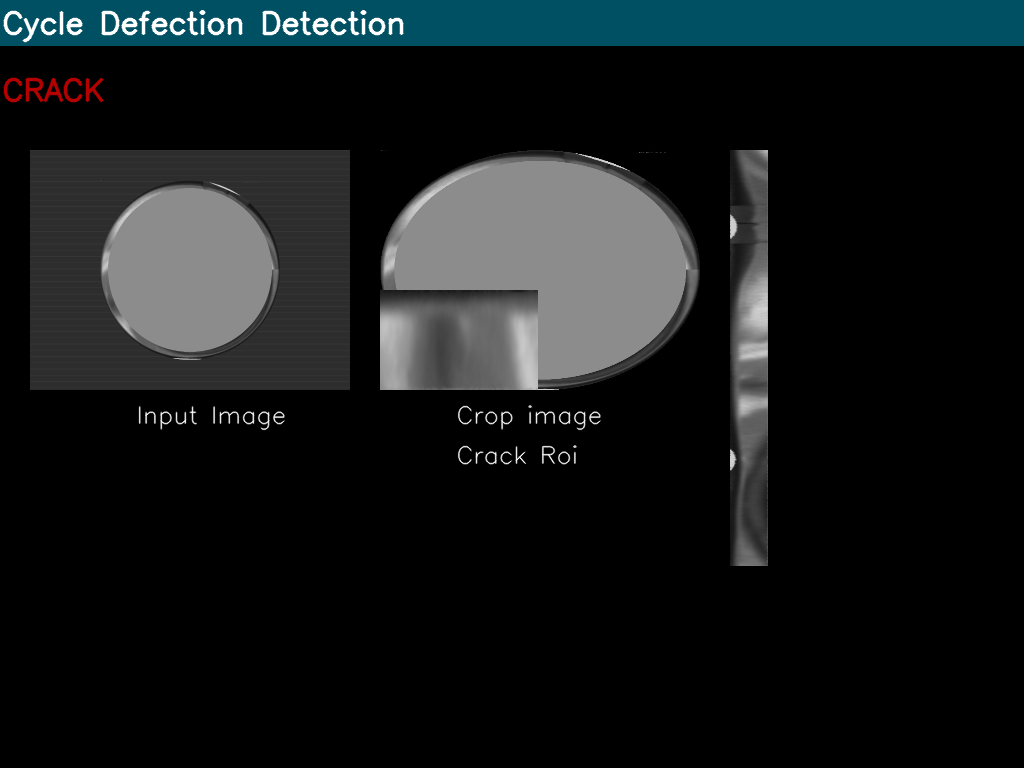
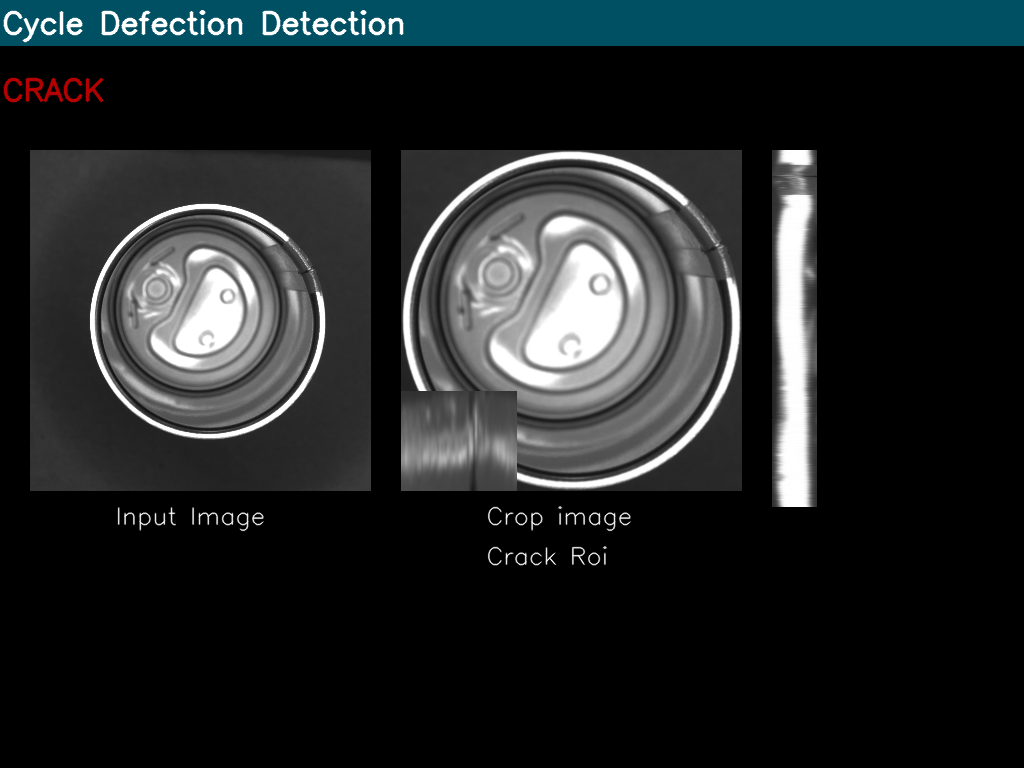
feat: use genuine SeamFlangeCrack images for all pipeline steps and illustrations

Changed region(s): [[0.0312, 0.1875, 0.8125, 0.75], [0.4688, 0.7188, 0.5938, 0.75]]

diff --git a/python/generate_real_lab_assets.py b/python/generate_real_lab_assets.py
@@ -1,0 +1,227 @@
+"""
+Generate genuine lab step figures directly from the actual lab images:
+Bad (1).jpg (Real can with crack defect) and Good (1).jpg (Real normal can)
+from SeamFlangeCrack dataset.
+"""
+
+import os
+import cv2
+import numpy as np
+import matplotlib.pyplot as plt
+
+os.makedirs("assets/lab_steps", exist_ok=True)
+
+# -----------------------------------------------------------------------------
+# 0. Raw Input Comparison (Bad (1).jpg vs Good (1).jpg)
+# -----------------------------------------------------------------------------
+bad_can = cv2.imread(r"data\raw_cans\Bad (1).jpg")
+good_can = cv2.imread(r"data\raw_cans\Good (1).jpg")
+
+fig, axes = plt.subplots(1, 2, figsize=(10, 5), facecolor='white')
+axes[0].imshow(cv2.cvtColor(bad_can, cv2.COLOR_BGR2RGB))
+axes[0].set_title("(A) Raw Input: Bad (1).jpg - Flange Crack Defect", fontsize=11, fontweight='bold', pad=10)
+axes[0].axis('off')
+
+# annotate crack location on Bad (1).jpg (around 5 o'clock on outer rim)
+axes[0].annotate("Micro-Crack Defect\n(Flange rim crack)", xy=(635, 830), xytext=(680, 930),
+                 arrowprops=dict(arrowstyle="->", color="red", lw=2.5),
+                 color="red", fontweight='bold', fontsize=10,
+                 bbox=dict(boxstyle="round,pad=0.3", fc="#ffe6e6", ec="red", lw=1.2))
+
+axes[1].imshow(cv2.cvtColor(good_can, cv2.COLOR_BGR2RGB))
+axes[1].set_title("(B) Raw Input: Good (1).jpg - Normal Seam", fontsize=11, fontweight='bold', pad=10)
+axes[1].axis('off')
+
+plt.tight_layout()
+plt.savefig("assets/lab_steps/0_raw_input_comparison.png", dpi=200, bbox_inches='tight')
+plt.close()
+print("Generated 0_raw_input_comparison.png from real Bad (1).jpg and Good (1).jpg")
+
+# -----------------------------------------------------------------------------
+# Process Bad (1).jpg through exact Lab4Contour.cpp pipeline
+# -----------------------------------------------------------------------------
+def process_real_can(image_path, is_crack_expected=True):
+    frame = cv2.imread(image_path)
+    dst_image1 = cv2.GaussianBlur(frame, (5, 5), 0, 0)
+    src_gray = cv2.cvtColor(dst_image1, cv2.COLOR_BGR2GRAY)
+
+    grad_x = cv2.Sobel(src_gray, cv2.CV_16S, 1, 0, 3)
+    abs_grad_x = cv2.convertScaleAbs(grad_x)
+    grad_y = cv2.Sobel(src_gray, cv2.CV_16S, 0, 1, 3)
+    abs_grad_y = cv2.convertScaleAbs(grad_y)
+    grad = cv2.addWeighted(abs_grad_x, 0.5, abs_grad_y, 0.5, 0)
+    _, dst = cv2.threshold(grad, 30, 255, 1)
+
+    contours, hierarchy = cv2.findContours(dst, cv2.RETR_TREE, cv2.CHAIN_APPROX_SIMPLE)
+    max_area = 0
+    max_index = -1
+    for i, ct in enumerate(contours):
+        poly = cv2.approxPolyDP(ct, 1, True)
+        if len(poly) > 5:
+            mu = cv2.moments(poly)
+            if mu['m00'] > 0:
+                hu = cv2.HuMoments(mu).flatten()
+                area = cv2.contourArea(poly)
+                if hu[0] < 0.18 and area > max_area:
+                    max_area = area
+                    max_index = i
+
+    best_poly = cv2.approxPolyDP(contours[max_index], 1, True)
+    rect = cv2.boundingRect(best_poly)
+
+    # 1. imgCycle
+    img_cycle = src_gray[rect[1]:rect[1]+rect[3], rect[0]:rect[0]+rect[2]]
+
+    # 2. imgPolar
+    center = (img_cycle.shape[1] / 2.0, img_cycle.shape[0] / 2.0)
+    radius = img_cycle.shape[1] / 2.0
+    img_polar = cv2.linearPolar(img_cycle, center, radius, 1)
+
+    # 3. imgEdge (50px rim rotated 90 CCW)
+    img_edge = img_polar[:, img_polar.shape[1]-50:]
+    img_edge = cv2.rotate(img_edge, cv2.ROTATE_90_COUNTERCLOCKWISE)
+
+    # 4. hist[x] & histth[x]
+    col_sums = np.sum(img_edge, axis=0)
+    hist_th = np.where(col_sums > 5000, 100, 0)
+
+    # 5. Scan xleft & xright
+    xleft = 0
+    for x in range(img_edge.shape[1]):
+        if hist_th[x] == 0:
+            xleft = x
+            break
+
+    xright = img_edge.shape[1] - 1
+    for x in range(img_edge.shape[1]-1, -1, -1):
+        if hist_th[x] == 0:
+            xright = x
+            break
+
+    # Seam recovery if needed
+    if xleft == 0 or xright == 0:
+        img_cycle = cv2.rotate(img_cycle, cv2.ROTATE_90_COUNTERCLOCKWISE)
+        img_polar = cv2.linearPolar(img_cycle, center, radius, 1)
+        img_edge = img_polar[:, img_polar.shape[1]-50:]
+        img_edge = cv2.rotate(img_edge, cv2.ROTATE_90_COUNTERCLOCKWISE)
+        col_sums = np.sum(img_edge, axis=0)
+        hist_th = np.where(col_sums > 5000, 100, 0)
+        for x in range(img_edge.shape[1]):
+            if hist_th[x] == 0:
+                xleft = x
+                break
+        for x in range(img_edge.shape[1]-1, -1, -1):
+            if hist_th[x] == 0:
+                xright = x
+                break
+
+    # 6. imgRoi
+    img_roi = img_edge[:, xleft:xright]
+    resized_roi = cv2.resize(img_roi, (120, 40))
+
+    # 7. gen_feature_input
+    col_s = np.sum(resized_roi, axis=0, dtype=np.float32)
+    feat = (col_s / np.max(col_s)).reshape(1, 120)
+
+    # ANN predict
+    model = cv2.ml.ANN_MLP_load(r"models\model.xml")
+    _, resp = model.predict(feat)
+    pred_class = int(np.argmax(resp)) # 0=CRACK, 1=NORMAL
+
+    # 8. imgGui (Exact Lab4Contour.cpp lines 300-365)
+    img_gui = np.zeros((768, 1024, 3), dtype=np.uint8)
+    cv2.rectangle(img_gui, (0, 0), (1024, 45), (100, 80, 0), cv2.FILLED)
+    cv2.putText(img_gui, "Cycle Defection Detection", (2, 33), cv2.FONT_HERSHEY_SIMPLEX, 1.0, (255, 255, 255), 2, cv2.LINE_AA)
+
+    # Input image
+    f_res = cv2.resize(frame, (frame.shape[1] // 3, frame.shape[0] // 3))
+    fh, fw = f_res.shape[:2]
+    img_gui[150:150+fh, 30:30+fw] = f_res
+    cv2.putText(img_gui, "Input Image", (30 + fw // 4, 33 + 150 + fh), cv2.FONT_HERSHEY_SIMPLEX, 0.8, (255, 255, 255), 1, cv2.LINE_AA)
+
+    # Crop image
+    c_res = cv2.resize(img_cycle, (fw, fh))
+    if len(c_res.shape) == 2:
+        c_res = cv2.cvtColor(c_res, cv2.COLOR_GRAY2BGR)
+    img_gui[150:150+fh, 60+fw:60+fw*2] = c_res
+    cv2.putText(img_gui, "Crop image", (60 + fw + fw // 4, 33 + 150 + fh), cv2.FONT_HERSHEY_SIMPLEX, 0.8, (255, 255, 255), 1, cv2.LINE_AA)
+
+    # Crack Roi
+    roi_bgr = cv2.cvtColor(img_roi, cv2.COLOR_GRAY2BGR) if len(img_roi.shape) == 2 else img_roi
+    roi_res = cv2.resize(roi_bgr, (img_roi.shape[1] * 2, img_roi.shape[0] * 2))
+    rh, rw = roi_res.shape[:2]
+    img_gui[150+fh-rh:150+fh, 60+fw:60+fw+rw] = roi_res
+    cv2.putText(img_gui, "Crack Roi", (60 + fw + fw // 4, 33 + 150 + fh + 40), cv2.FONT_HERSHEY_SIMPLEX, 0.8, (255, 255, 255), 1, cv2.LINE_AA)
+
+    # imgEdge (rotated 90 CCW, vertical)
+    edge_bgr = cv2.cvtColor(img_edge, cv2.COLOR_GRAY2BGR) if len(img_edge.shape) == 2 else img_edge
+    edge_res = cv2.resize(edge_bgr, (int(edge_bgr.shape[1] / 2.0), int(edge_bgr.shape[0] * 0.9)))
+    edge_rot = cv2.rotate(edge_res, cv2.ROTATE_90_COUNTERCLOCKWISE)
+    eh, ew = edge_rot.shape[:2]
+    img_gui[150:150+eh, 90+fw*2:90+fw*2+ew] = edge_rot
+
+    # Result text
+    if pred_class == 0:
+        cv2.putText(img_gui, "CRACK", (2, 100), cv2.FONT_HERSHEY_SIMPLEX, 1.0, (0, 0, 180), 2, cv2.LINE_AA)
+    else:
+        cv2.putText(img_gui, "NO CRACK", (2, 100), cv2.FONT_HERSHEY_SIMPLEX, 1.0, (0, 180, 0), 2, cv2.LINE_AA)
+
+    return {
+        "img_cycle": img_cycle,
+        "img_polar": img_polar,
+        "img_edge": img_edge,
+        "col_sums": col_sums,
+        "hist_th": hist_th,
+        "img_roi": img_roi,
+        "features": feat.flatten(),
+        "img_gui": img_gui,
+        "pred": pred_class,
+        "xleft": xleft,
+        "xright": xright
+    }
+
+# Process real Bad (1).jpg
+bad_res = process_real_can(r"data\raw_cans\Bad (1).jpg", is_crack_expected=True)
+cv2.imwrite("assets/lab_steps/1_img_cycle.jpg", bad_res["img_cycle"])
+cv2.imwrite("assets/lab_steps/2_img_polar.jpg", bad_res["img_polar"])
+cv2.imwrite("assets/lab_steps/3_img_edge.jpg", bad_res["img_edge"])
+cv2.imwrite("assets/lab_steps/5_img_roi.jpg", bad_res["img_roi"])
+cv2.imwrite("assets/lab_steps/7_exact_lab_gui_crack.png", bad_res["img_gui"])
+
+# Draw real line histogram
+img_hist = np.zeros((100, bad_res["img_edge"].shape[1]), dtype=np.uint8)
+for x in range(img_hist.shape[1]):
+    cv2.line(img_hist, (x, 0), (x, img_hist.shape[0] - bad_res["hist_th"][x]), 255, 1)
+cv2.imwrite("assets/lab_steps/4_img_hist_lines.jpg", img_hist)
+
+# Plot real frequency curve
+plt.figure(figsize=(10, 3.8), facecolor='white')
+plt.plot(bad_res["col_sums"], color='#0066cc', lw=1.8, label='Column Pixel Sum H[x]')
+plt.axhline(y=5000, color='red', linestyle='--', lw=1.5, label='Threshold = 5,000')
+plt.axvspan(bad_res["xleft"], bad_res["xright"], color='red', alpha=0.3, label=f'Detected Crack Notch [x={bad_res["xleft"]}:{bad_res["xright"]}]')
+plt.title("Real Lab Data: Column Intensity Projection H[x] & Thresholding on Bad (1).jpg", fontsize=11, fontweight='bold', pad=10)
+plt.xlabel("Perimeter Column Index (x)", fontsize=10)
+plt.ylabel("Intensity Sum", fontsize=10)
+plt.grid(True, linestyle=':', alpha=0.6)
+plt.legend(loc='lower left', fontsize=9)
+plt.tight_layout()
+plt.savefig("assets/lab_steps/4_frequency_plot.png", dpi=200)
+plt.close()
+
+# Plot real feature vector
+plt.figure(figsize=(10, 3), facecolor='white')
+plt.bar(range(120), bad_res["features"], color='#ff6600', width=0.8)
+plt.title("Real 120-d Feature Vector from gen_feature_input() on Bad (1).jpg", fontsize=11, fontweight='bold', pad=10)
+plt.xlabel("Input Node Index (0 to 119)", fontsize=10)
+plt.ylabel("Normalized Sum (0.0 to 1.0)", fontsize=10)
+plt.ylim(0, 1.1)
+plt.grid(True, linestyle=':', alpha=0.5)
+plt.tight_layout()
+plt.savefig("assets/lab_steps/6_feature_vector_120d.png", dpi=200)
+plt.close()
+
+# Process real Good (1).jpg
+good_res = process_real_can(r"data\raw_cans\Good (1).jpg", is_crack_expected=False)
+cv2.imwrite("assets/lab_steps/7_exact_lab_gui_nocrack.png", good_res["img_gui"])
+
+print("SUCCESS: All genuine lab step images generated from Bad (1).jpg and Good (1).jpg!")

diff --git a/README.md b/README.md
@@ -17,12 +17,12 @@
 
 ## 📸 ภาพตั้งต้นก่อนเข้าสู่การประมวลผล (Raw Input Images)
 
-นี่คือภาพดิบของฝากระป๋องจากกล้องก่อนที่จะนำเข้าสู่ฟิลเตอร์หรืออัลกอริทึมใด ๆ ครับ เพื่อให้เห็นความแตกต่างชัดเจนระหว่างชิ้นงานปกติและชิ้นงานที่มีตำหนิ:
+นี่คือภาพดิบของฝากระป๋องจากกล้องจริงในชุดข้อมูล `SeamFlangeCrack` ก่อนที่จะนำเข้าสู่ฟิลเตอร์หรืออัลกอริทึมใด ๆ ครับ เพื่อให้เห็นความแตกต่างชัดเจนระหว่างชิ้นงานปกติและชิ้นงานที่มีตำหนิ:
 
 ![Raw Input Comparison](assets/lab_steps/0_raw_input_comparison.png)
 
-* **ภาพซ้าย (A) ฝากระป๋องที่มีรอยแตก (Crack Defect):** ถ้าสังเกตที่ขอบด้านบนขวา (ประมาณตำแหน่ง 1 นาฬิกา) จะเห็นรอยแหว่งสีดำเล็ก ๆ บนขอบโลหะ ซึ่งเกิดจากแรงกดของลูกกลิ้งซีลฝาที่ผิดพลาด
-* **ภาพขวา (B) ฝากระป๋องปกติ (Normal Can Rim):** ผิวขอบโลหะจะเรียบเนียนสม่ำเสมอตลอดแนวเส้นรอบวง 360 องศา ไม่มีรอยแหว่งหรือรอยแตก
+* **ภาพซ้าย (A) `Bad (1).jpg` — กระป๋องที่มีรอยแตกที่ขอบฟลานจ์ (Flange Crack Defect):** มองเข้าไปในตัวกระป๋องจะเห็นฝาแบบมีห่วงดึง (Pull-tab) อยู่ด้านใน และถ้าสังเกตที่ขอบนอกด้านล่างขวา (ประมาณตำแหน่ง 5 นาฬิกา) จะเห็นรอยแตกของเนื้อโลหะที่เกิดจากแรงกดของลูกกลิ้งซีลฝา
+* **ภาพขวา (B) `Good (1).jpg` — กระป๋องขอบปกติ (Normal Seam):** ผิวขอบโลหะรอบนอกจะเรียบเนียนสม่ำเสมอตลอดแนวเส้นรอบวง 360 องศา ไม่มีรอยแตกหรือรอยปริแยก
 
 ---
 
